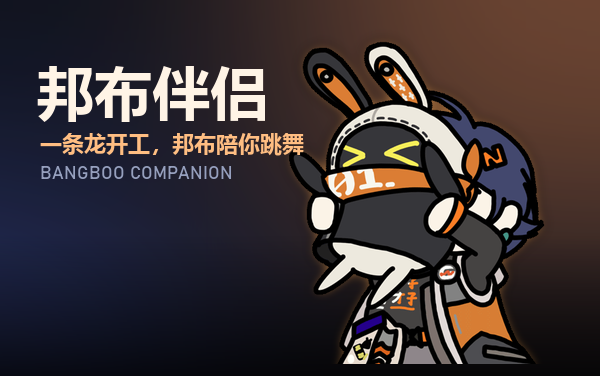
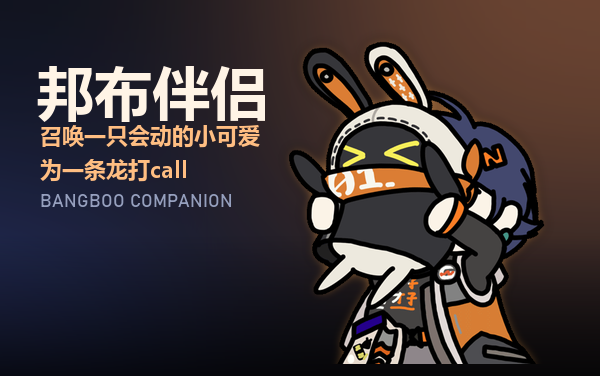
feat: 封面 slogan 更换为「召唤一只会动的小可爱为一条龙打call」（两行排版）

Changed region(s): [[0.06, 0.3218, 0.51, 0.5559]]

diff --git a/scripts/preview_slogans.py b/scripts/preview_slogans.py
@@ -1,0 +1,86 @@
+# -*- coding: utf-8 -*-
+"""Slogan 候选预览：复用 make_cover 逻辑，4 条各渲染一版拼图。"""
+import sys
+from pathlib import Path
+
+from PIL import Image, ImageDraw, ImageFilter, ImageFont
+
+sys.path.insert(0, str(Path(__file__).parent))
+W, H = 600, 376
+PLUGIN_DIR = Path(__file__).parent.parent
+FONT_CN = r'C:\Windows\Fonts\msyhbd.ttc'
+FONT_EN = r'C:\Windows\Fonts\bahnschrift.ttf'
+
+CANDIDATES = [
+    '哒哒哒～开工咯，跟邦布蹦蹦跳！',
+    '邦布上岗！跳舞给你加油哒',
+    '一条龙开工，邦布贴贴跳舞',
+    '干活哒日子，也要蹦蹦跳跳！',
+]
+
+
+def build(slogan: str) -> Image.Image:
+    bg = Image.new('RGB', (W, H), (24, 28, 44))
+    glow = Image.new('RGB', (W, H), (0, 0, 0))
+    gd = ImageDraw.Draw(glow)
+    gd.ellipse([W - 320, -120, W + 80, 260], fill=(255, 140, 60))
+    gd.ellipse([-140, H - 200, 180, H + 120], fill=(70, 90, 200))
+    glow = glow.filter(ImageFilter.GaussianBlur(120))
+    bg = Image.blend(bg, Image.composite(glow, bg, Image.new('L', (W, H), 110)), 0.85)
+
+    grad = Image.new('L', (1, H))
+    for y in range(H):
+        t = max(0.0, (y / H - 0.62) / 0.38)
+        grad.putpixel((0, y), int(200 * t))
+    grad = grad.resize((W, H))
+    dark = Image.new('RGB', (W, H), (0, 0, 0))
+    bg = Image.composite(dark, bg, grad)
+
+    gif = Image.open(PLUGIN_DIR / 'bangboo_companion' / 'assets' / 'dance.gif')
+    gif.seek(2)
+    art = gif.convert('RGBA')
+    target_h = 340
+    scale = target_h / art.height
+    art = art.resize((int(art.width * scale), target_h), Image.Resampling.LANCZOS)
+    alpha = art.getchannel('A')
+    halo = Image.new('RGBA', art.size, (0, 0, 0, 0))
+    halo.paste((255, 170, 80, 160), mask=alpha.point(lambda v: 255 if v > 40 else 0))
+    halo = halo.filter(ImageFilter.GaussianBlur(6))
+    art_rgba = Image.new('RGBA', (W, H), (0, 0, 0, 0))
+    ax, ay = W - art.width - 28, H - art.height - 12
+    art_rgba.alpha_composite(halo, (ax, ay))
+    art_rgba.alpha_composite(art, (ax, ay))
+    bg = bg.convert('RGBA')
+    bg.alpha_composite(art_rgba)
+
+    d = ImageDraw.Draw(bg)
+    f_title = ImageFont.truetype(FONT_CN, 58)
+    f_sub = ImageFont.truetype(FONT_CN, 22)
+    f_en = ImageFont.truetype(FONT_EN, 18)
+    f_tag = ImageFont.truetype(FONT_CN, 26)
+    d.text((36, 52), '邦布伴侣', font=f_title, fill=(255, 244, 230))
+    d.text((40, 128), slogan, font=f_sub, fill=(255, 190, 130))
+    d.text((40, 164), 'BANGBOO COMPANION', font=f_en, fill=(150, 160, 190))
+    return bg.convert('RGB')
+
+
+def main():
+    pad, label_h = 14, 44
+    out_w = 560
+    scale = out_w / W
+    out_h = (H * scale + label_h + pad) * len(CANDIDATES) + pad
+    sheet = Image.new('RGB', (out_w + pad * 2, int(out_h)), (16, 18, 28))
+    d = ImageDraw.Draw(sheet)
+    f_label = ImageFont.truetype(FONT_CN, 24)
+    for i, slogan in enumerate(CANDIDATES):
+        y = int(i * (H * scale + label_h + pad) + pad)
+        d.text((pad + 4, y), f'候选 {i + 1}: {slogan}', font=f_label, fill=(240, 240, 240))
+        cover = build(slogan).resize((out_w, int(H * scale)), Image.Resampling.LANCZOS)
+        sheet.paste(cover, (pad, y + label_h))
+    out = Path(__file__).parent.parent / 'slogan_preview.png'
+    sheet.save(out, quality=92)
+    print('preview saved:', out)
+
+
+if __name__ == '__main__':
+    main()

diff --git a/scripts/make_cover.py b/scripts/make_cover.py
@@ -59,8 +59,9 @@ def build() -> None:
     f_sub = ImageFont.truetype(FONT_CN, 22)
     f_en = ImageFont.truetype(FONT_EN, 18)
     d.text((36, 52), '邦布伴侣', font=f_title, fill=(255, 244, 230))
-    d.text((40, 128), '一条龙开工，邦布陪你跳舞', font=f_sub, fill=(255, 190, 130))
-    d.text((40, 164), 'BANGBOO COMPANION', font=f_en, fill=(150, 160, 190))
+    d.text((40, 120), '召唤一只会动的小可爱', font=f_sub, fill=(255, 190, 130))
+    d.text((40, 154), '为一条龙打call', font=f_sub, fill=(255, 190, 130))
+    d.text((40, 192), 'BANGBOO COMPANION', font=f_en, fill=(150, 160, 190))
 
     OUT.parent.mkdir(parents=True, exist_ok=True)
     bg.convert('RGB').save(OUT, quality=95)
